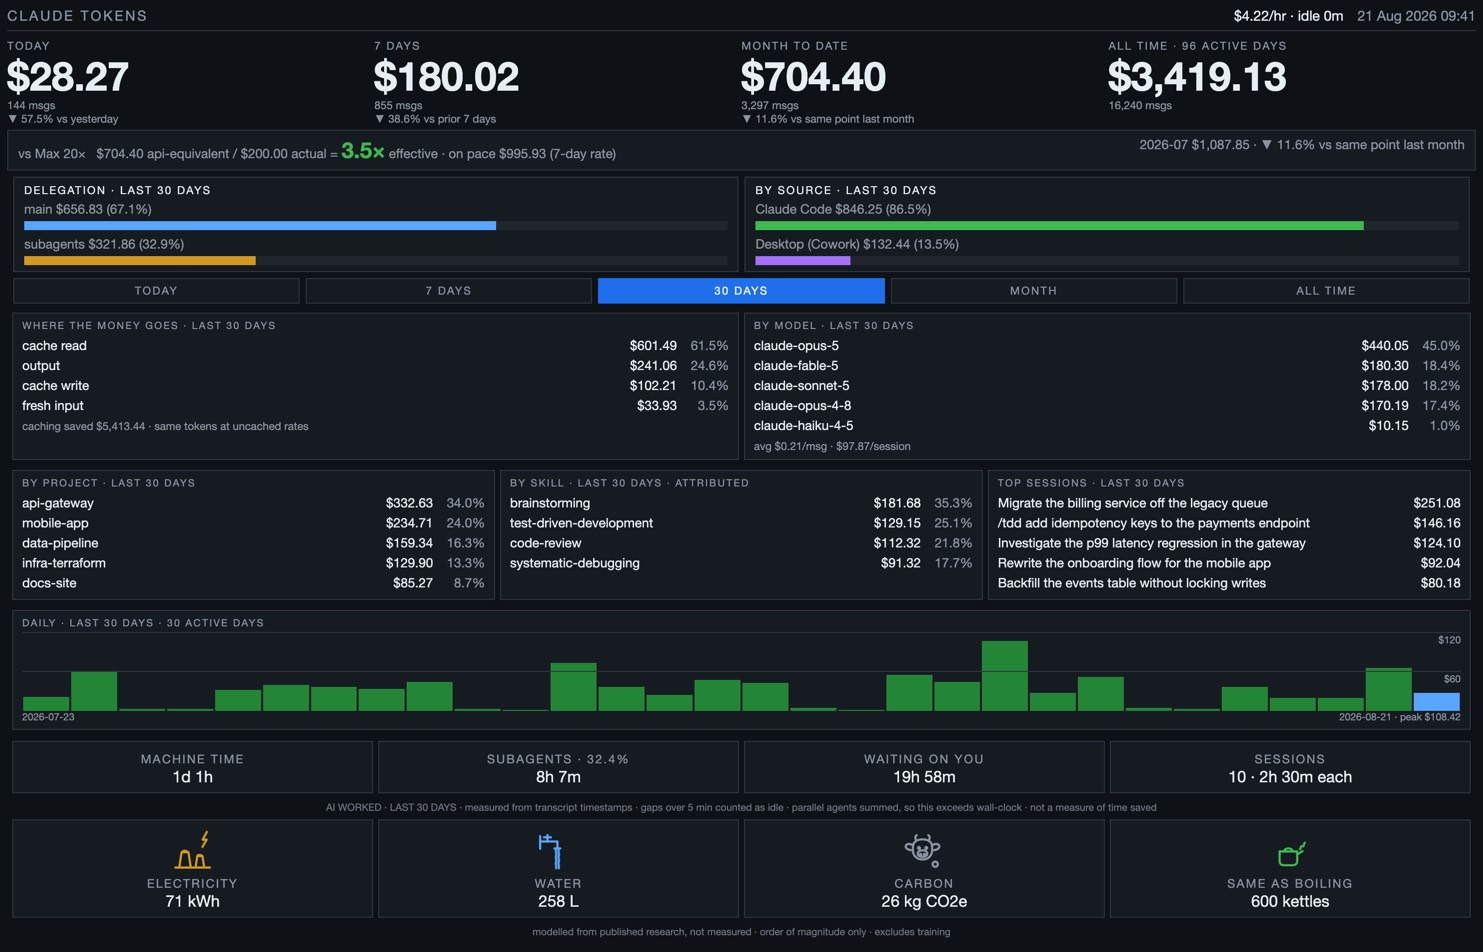
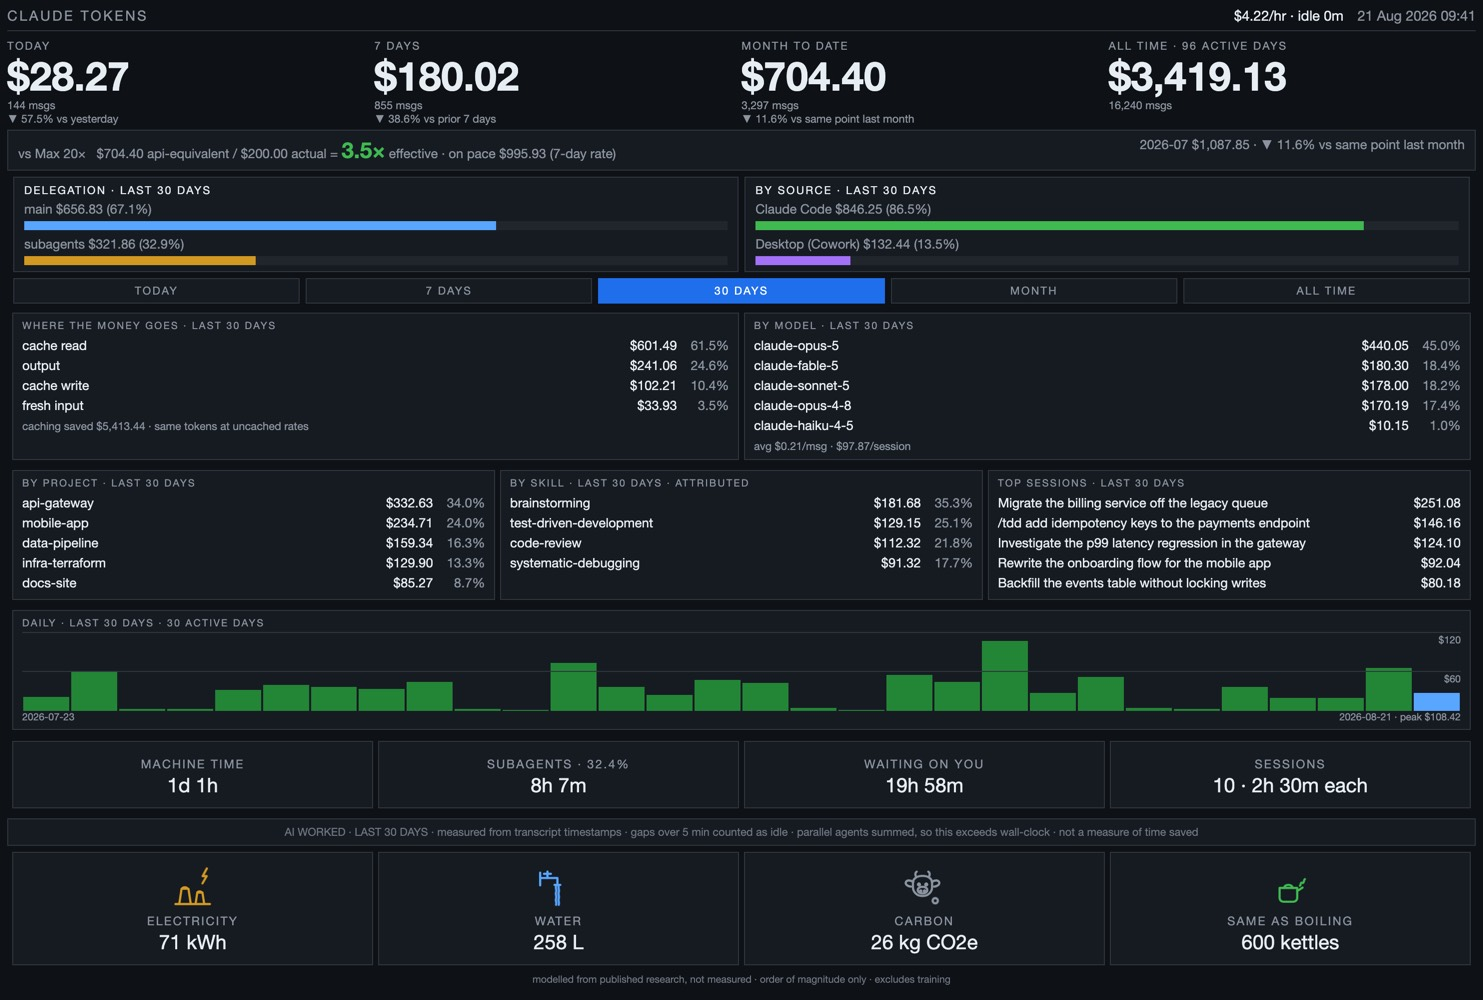
Enlarge the cards and box the machine-time caption
Card figures 16px -> 20px with more padding, on both rows.

The "AI WORKED · ..." caption gets the same chrome as the cards, full
width. It sits between the two card rows rather than under the last one,
so unboxed it read as a stray line rather than as part of the stack. Full
width on purpose: it qualifies all four cards above it, and boxing it
per-card would imply otherwise.

The footprint caption stays unboxed — it is the last thing on the page, so
it reads as a footer rather than as a divider.

Page 920 -> 968px.

Claude-Session: https://claude.ai/code/session_013xSMFUf1Xu7BGjZfdm5wnH

diff --git a/tests/fixtures/golden_dashboard.html b/tests/fixtures/golden_dashboard.html
@@ -79,12 +79,18 @@ table.daily { position:relative; z-index:1; }
    the quiet part and the figure is what carries across a room. */
 table.cards { width:100%; table-layout:fixed; border-collapse:separate;
               border-spacing:5px; margin-top:1px; }
-td.card { background:#161b22; border:1px solid #30363d; padding:7px 4px 6px 4px;
+td.card { background:#161b22; border:1px solid #30363d; padding:11px 6px 10px 6px;
           text-align:center; vertical-align:top; }
-.cardlabel { font-size:12px; letter-spacing:1.5px; color:#8b949e; margin-top:3px;
+.cardlabel { font-size:12px; letter-spacing:1.5px; color:#8b949e; margin-top:4px;
              white-space:nowrap; }
-.cardvalue { font-size:16px; color:#e6edf3; margin-top:1px; white-space:nowrap; }
+.cardvalue { font-size:20px; color:#e6edf3; margin-top:2px; white-space:nowrap; }
 .cardnote { font-size:10px; color:#6e7681; text-align:center; margin-top:3px; }
+/* The machine-time caption sits between the two card rows rather than under
+   the last one, so it needs the same chrome to read as part of the stack
+   instead of as a stray line. Full width on purpose: it qualifies all four
+   cards above it, and boxing it per-card would imply otherwise. */
+.cardnote.framed { background:#161b22; border:1px solid #30363d;
+                   padding:6px 10px; font-size:11px; margin-top:5px; }
 
 /* The footprint strip. Four line drawings across the bottom right, each
    animated by cross-fading a few hand-drawn frames — a flipbook.
@@ -146,6 +152,6 @@ $41.15/session</div><div class="note">1 unpriced model(s), counted but not coste
 <table class="grid"><tbody>
 <tr><td><h2>DAILY &middot; LAST 30 DAYS &middot; 3 ACTIVE DAYS</h2><div class="chartwrap" style="height:78px"><div class="gridline" style="bottom:39px"><span class="glabel">$15</span></div><div class="gridline" style="bottom:78px"><span class="glabel">$30</span></div><table class="daily" style="height:78px"><tr><td><div class="col" style="height:26px"></div></td><td><div class="col" style="height:66px"></div></td><td><div class="col" style="height:32px"></div></td></tr></table></div><div class="dscale">2026-07-28<span style="float:right">2026-07-30 &middot; peak $25.50</span></div></td></tr>
 </tbody></table>
-<table class="cards" id="worked"><tbody><tr><td class="card"><div class="cardlabel">MACHINE TIME</div><div class="cardvalue">1d 8h</div></td><td class="card"><div class="cardlabel">SUBAGENTS &middot; 32.8%</div><div class="cardvalue">10h 30m</div></td></tr></tbody></table><div class="cardnote">AI WORKED &middot; LAST 30 DAYS &middot; measured from transcript timestamps &middot; gaps over 5 min counted as idle &middot; parallel agents summed, so this exceeds wall-clock &middot; not a measure of time saved</div>
+<table class="cards" id="worked"><tbody><tr><td class="card"><div class="cardlabel">MACHINE TIME</div><div class="cardvalue">1d 8h</div></td><td class="card"><div class="cardlabel">SUBAGENTS &middot; 32.8%</div><div class="cardvalue">10h 30m</div></td></tr></tbody></table><div class="cardnote framed">AI WORKED &middot; LAST 30 DAYS &middot; measured from transcript timestamps &middot; gaps over 5 min counted as idle &middot; parallel agents summed, so this exceeds wall-clock &middot; not a measure of time saved</div>
 <table class="cards" id="footprint"><tbody><tr><td class="card"><svg class="fpicon" width="46" height="46" viewBox="0 0 24 24" fill="none" stroke="#d29922" stroke-width="1.15" stroke-linecap="round" stroke-linejoin="round" aria-hidden="true"><path d="M3 21h18M5 21l1.2-8h3.6L11 21M13.5 21l.9-6h2.7l.9 6"/><path d="M6.4 13c.6-1 2.4-1 3 0M14.4 15c.5-.8 1.9-.8 2.4 0"/><g class="fpf fpf1"><path d="M19 2l-2.6 4.4h2.4L16.4 11"/></g><g class="fpf fpf2"><path d="M19.4 2.4l-2.2 4h2.1l-2.2 3.8"/></g></svg><div class="cardlabel">ELECTRICITY</div><div class="cardvalue">2.4 kWh</div></td><td class="card"><svg class="fpicon" width="46" height="46" viewBox="0 0 24 24" fill="none" stroke="#58a6ff" stroke-width="1.15" stroke-linecap="round" stroke-linejoin="round" aria-hidden="true"><path d="M2.4 4.6v6.6"/><path d="M2.4 7.4h9v3.6"/><path d="M9.9 11h3"/><path d="M6.2 7.4V5.2M4.4 5.2h3.6M6.2 5.2V4"/><g class="fpf fpf1"><path d="M10.7 10.4c-.5 1.1.5 2.2 0 3.3s.5 2.2 0 3.3s.5 2.2 0 3.3M12.1 10.4c-.5 1.1.5 2.2 0 3.3s.5 2.2 0 3.3s.5 2.2 0 3.3"/></g><g class="fpf fpf2"><path d="M10.7 11.5c-.5 1.1.5 2.2 0 3.3s.5 2.2 0 3.3s.5 2.2 0 3.3M12.1 11.5c-.5 1.1.5 2.2 0 3.3s.5 2.2 0 3.3s.5 2.2 0 3.3"/></g><g class="fpf fpf3"><path d="M10.7 12.6c-.5 1.1.5 2.2 0 3.3s.5 2.2 0 3.3s.5 2.2 0 3.3M12.1 12.6c-.5 1.1.5 2.2 0 3.3s.5 2.2 0 3.3s.5 2.2 0 3.3"/></g></svg><div class="cardlabel">WATER</div><div class="cardvalue">8.7 L</div></td><td class="card"><svg class="fpicon" width="46" height="46" viewBox="0 0 24 24" fill="none" stroke="#8b949e" stroke-width="1.15" stroke-linecap="round" stroke-linejoin="round" aria-hidden="true"><path d="M6 9.8c0-2.1 2.2-3.5 5-3.5s5 1.4 5 3.5v2.3c0 2.7-2.2 4.7-5 4.7s-5-2-5-4.7z"/><path d="M6.2 9.4c-1.9-1.1-3.5-.9-3.9.2s.8 2.1 2.7 2.3"/><path d="M15.8 9.4c1.9-1.1 3.5-.9 3.9.2s-.8 2.1-2.7 2.3"/><path d="M7.7 6.9c-.7-1.3-.5-2.3.3-2.8M14.3 6.9c.7-1.3.5-2.3-.3-2.8"/><path d="M9.1 10.3a.5 .5 0 1 0 .1 0M12.9 10.3a.5 .5 0 1 0 .1 0"/><path d="M8.5 13.7c0-1 1.1-1.7 2.5-1.7s2.5.7 2.5 1.7-1.1 1.8-2.5 1.8-2.5-.8-2.5-1.8z"/><path d="M10 13.9a.35 .35 0 1 0 .1 0M12 13.9a.35 .35 0 1 0 .1 0"/><g class="fpf fpf1"><path d="M15.6 17.6a.85 .85 0 1 0 .1 0"/></g><g class="fpf fpf2"><path d="M17.6 17.9a1.35 1.35 0 1 0 .1 0"/></g><g class="fpf fpf3"><path d="M19.9 17.5a1.95 1.95 0 1 0 .1 0"/></g></svg><div class="cardlabel">CARBON</div><div class="cardvalue">884 g CO2e</div></td><td class="card"><svg class="fpicon" width="46" height="46" viewBox="0 0 24 24" fill="none" stroke="#3fb950" stroke-width="1.15" stroke-linecap="round" stroke-linejoin="round" aria-hidden="true"><path d="M6.4 12.6h9.2v5.2a2 2 0 0 1-2 2H8.4a2 2 0 0 1-2-2z"/><path d="M8.6 12.6a2.6 2.6 0 0 1 4.8 0M15.6 14.2l2.8-1.8"/><g class="fpf fpf1"><path d="M18.6 11c.9-.6.1-1.4 1-2"/></g><g class="fpf fpf2"><path d="M18.6 10c.9-.6.1-1.4 1-2M17 11.4c.7-.5.1-1.1.8-1.6"/></g><g class="fpf fpf3"><path d="M18.6 9c.9-.6.1-1.4 1-2M17 10.4c.7-.5.1-1.1.8-1.6"/></g></svg><div class="cardlabel">SAME AS BOILING</div><div class="cardvalue">20 kettles</div></td></tr></tbody></table><div class="cardnote">modelled from published research, not measured &middot; order of magnitude only &middot; excludes training</div>
 </body></html>

diff --git a/dashboard/render_html.py b/dashboard/render_html.py
@@ -97,12 +97,18 @@ table.daily { position:relative; z-index:1; }
    the quiet part and the figure is what carries across a room. */
 table.cards { width:100%; table-layout:fixed; border-collapse:separate;
               border-spacing:5px; margin-top:1px; }
-td.card { background:#161b22; border:1px solid #30363d; padding:7px 4px 6px 4px;
+td.card { background:#161b22; border:1px solid #30363d; padding:11px 6px 10px 6px;
           text-align:center; vertical-align:top; }
-.cardlabel { font-size:12px; letter-spacing:1.5px; color:#8b949e; margin-top:3px;
+.cardlabel { font-size:12px; letter-spacing:1.5px; color:#8b949e; margin-top:4px;
              white-space:nowrap; }
-.cardvalue { font-size:16px; color:#e6edf3; margin-top:1px; white-space:nowrap; }
+.cardvalue { font-size:20px; color:#e6edf3; margin-top:2px; white-space:nowrap; }
 .cardnote { font-size:10px; color:#6e7681; text-align:center; margin-top:3px; }
+/* The machine-time caption sits between the two card rows rather than under
+   the last one, so it needs the same chrome to read as part of the stack
+   instead of as a stray line. Full width on purpose: it qualifies all four
+   cards above it, and boxing it per-card would imply otherwise. */
+.cardnote.framed { background:#161b22; border:1px solid #30363d;
+                   padding:6px 10px; font-size:11px; margin-top:5px; }
 
 /* The footprint strip. Four line drawings across the bottom right, each
    animated by cross-fading a few hand-drawn frames — a flipbook.
@@ -442,7 +448,7 @@ def _worked_band(view: RangeView) -> str:
     )
     return (
         f'<table class="cards" id="worked"><tbody><tr>{cells}</tr></tbody></table>'
-        f'<div class="cardnote">AI WORKED &middot; {escape(view.label)} '
+        f'<div class="cardnote framed">AI WORKED &middot; {escape(view.label)} '
         "&middot; measured from transcript timestamps &middot; gaps over "
         f"{int(scan.MAX_WORK_GAP_SECONDS / 60)} min counted as idle "
         "&middot; parallel agents summed, so this exceeds wall-clock "

diff --git a/README.md b/README.md
@@ -123,7 +123,7 @@ properties, no `rem` units and no usable ES5 — so the layout is tables and
 that as a compatibility lint, so it cannot quietly regress. If it renders
 there, it renders anywhere.
 
-The page is laid out for a width of **1024** and is **920px tall**, measured
+The page is laid out for a width of **1024** and is **968px tall**, measured
 in a 1024-wide frame rather than estimated. Everything down to and including
 the daily chart fits a 1024×768 screen; the two card rows —
 machine time and footprint — sit below the fold and need a short scroll.
